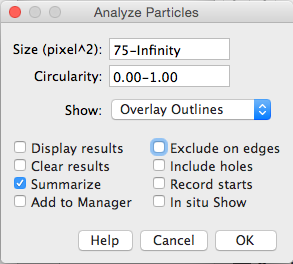
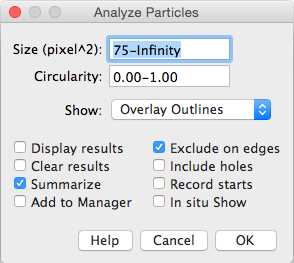
Fix typos and small errors

diff --git a/automate/automate.md b/automate/automate.md
@@ -13,13 +13,12 @@ from java.lang import Double
 
 # Get the currently open image
 img = IJ.getImage()
-title = img.getTitle()
 
 # Split the channels
 channels = ChannelSplitter.split(img)
-dapi = channels[0]
+ph3 = channels[0]
 ki67 = channels[1]
-ph3 = channels[2]
+dapi = channels[2]
 dapi.show()
 ki67.show()
 ph3.show()
@@ -48,16 +47,31 @@ Segmenting the Ph3 channel (not shown here) is the same process.
 ---
 Now let's quantify the number of cells in each channel using Particle Analysis (i.e., Connected Components). To do this we use the ParticleAnalyzer plugin from ImageJ.
 
+See if you can recognise some of the things we initiate in the ParticleAnalyzer in this dialog we used in manual interactive procedure.
+![](../images/demo3/analyze_parts.png)
+
 ```python
-rt = ResultsTable()
 pa = ParticleAnalyzer(ParticleAnalyzer.EXCLUDE_EDGE_PARTICLES |
-                          		 ParticleAnalyzer.SHOW_MASKS,
-                          		 ParticleAnalyzer.AREA, rt, 75, 
-                          		 Double.POSITIVE_INFINITY)
+                      ParticleAnalyzer.DISPLAY_SUMMARY |
+                      ParticleAnalyzer.SHOW_OVERLAY_OUTLINES,
+                      ParticleAnalyzer.AREA, None, 75,
+                      Double.POSITIVE_INFINITY)
 pa.analyze(dapi)
+
+
+pa = ParticleAnalyzer(ParticleAnalyzer.EXCLUDE_EDGE_PARTICLES |
+                      ParticleAnalyzer.DISPLAY_SUMMARY |
+                      ParticleAnalyzer.SHOW_OVERLAY_OUTLINES,
+                      ParticleAnalyzer.AREA, None, 75,
+                      Double.POSITIVE_INFINITY)
 pa.analyze(ki67)
+
+pa = ParticleAnalyzer(ParticleAnalyzer.EXCLUDE_EDGE_PARTICLES |
+                      ParticleAnalyzer.DISPLAY_SUMMARY |
+                      ParticleAnalyzer.SHOW_OVERLAY_OUTLINES,
+                      ParticleAnalyzer.AREA, None, 75,
+                      Double.POSITIVE_INFINITY)
 pa.analyze(ph3)
-rt.show("Results")
 ```
 
-![See if you can recognise some of the things we initiate in the ParticleAnalyzer in this dialog we used in manual interactive procedure.](../images/demo3/analyze_parts.png)
+

diff --git a/scaling/scaling.md b/scaling/scaling.md
@@ -5,8 +5,43 @@ Break down the requirements:
 
 1. Ask user for a folder of images to analyse.
 2. Query that folder to get a list of files to analyse.
-3. Filter the list of files to exclude those that are supported.
+3. Filter the list of files to exclude those that are not supported.
 4. For each file in our list:
     1. Open the image
     2. Analyse the image using the routine we setup previously.
     3. Add results as a new line in the result table.
+
+Note: We might also like to include some code to save the segmented binary images, so that users can check the outputs of our script. For that we need to ask the user for an output folder and get image to save the segmented binary images into that folder.
+
+```python
+def run():
+    # Get the user to choose a directory of images to analyse
+    dc = DirectoryChooser("Pick a folder of images to analyse...")
+    img_dir = dc.getDirectory()
+
+    if img_dir is None:
+        print "No directory selected."
+        return
+
+    # Get the users to specify an output directory
+    od = DirectoryChooser("Pick an output folder...")
+    output_dir = od.getDirectory()
+
+    # Get a list of files from the input directory
+    file_list = os.listdir(img_dir)
+    file_list = filter(accept, file_list)
+
+    results = ResultsTable()
+
+    # Iterate through the list of files
+    for fp in file_list:
+        image = IJ.openImage(os.path.join(img_dir, fp))
+
+        # ... code that analyses image from v4 of the script
+        # ...
+        # ...
+
+    results.show("Results")
+
+run()
+```

diff --git a/automate/automate3.md b/automate/automate3.md
@@ -1,5 +1,5 @@
 # Refinements
-Total cell number and number of cells expressing markers are determined independently on each image. However, number of cells expressing a specific marker cannot be reliably determined from those the marker channel image because marker expression is not homogenous across nuclei like DAPI.
+Total cell number and number of cells expressing markers are determined independently on each image. However, the number of cells expressing a specific marker cannot be reliably determined from those the marker channel images because marker expression is variable and is not homogenous across nuclei like DAPI.
 
 Geodesic reconstruction allows us to use a reliable marker like DAPI to determine which cells overlap an area of marker expression.
 

diff --git a/automate/results.md b/automate/results.md
@@ -21,12 +21,16 @@ def count_cells(img, min_size=0, max_size=Double.POSITIVE_INFINITY):
     :type max_circ float
     :return number of cells
     """
+    # Define a results table to store results for each particle
     rt = ResultsTable()
     pa = ParticleAnalyzer(ParticleAnalyzer.EXCLUDE_EDGE_PARTICLES |
                           ParticleAnalyzer.SHOW_NONE,
                           ParticleAnalyzer.AREA, rt, min_size, max_size)
     pa.setHideOutputImage(True)
     pa.analyze(img)
+
+    # Hack to get the number of cells - count the number of rows in the 
+    # first column.
     return len(rt.getColumn(0))
 ```
 
